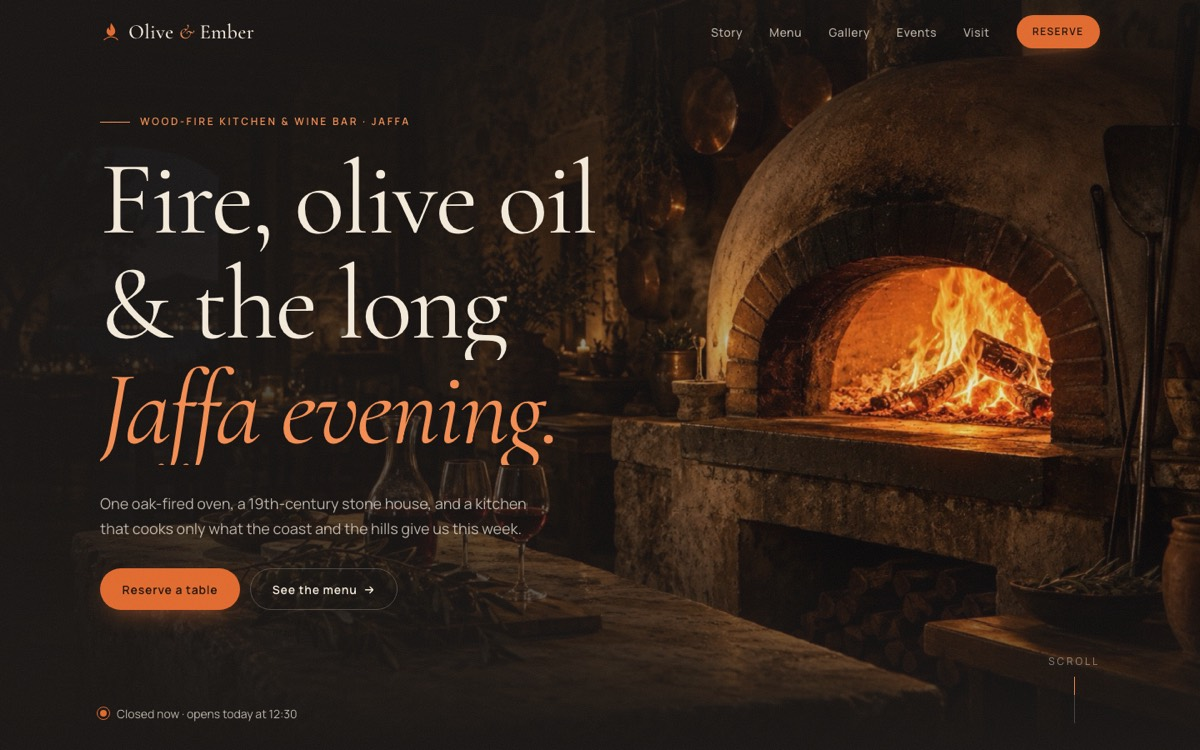
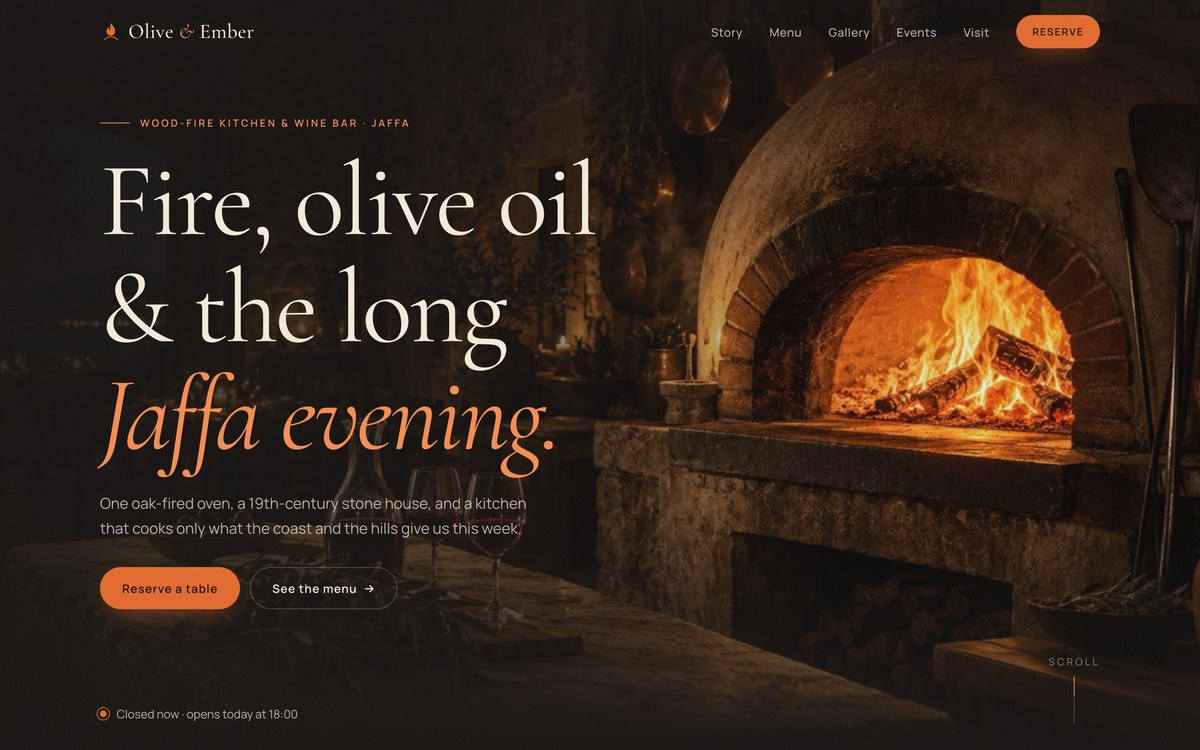
Merge the audience and services sections into one value section, and fix clipped descenders in the Olive & Ember demo
The "For small businesses" and "Websites & automation" sections are now one section, "What your business gets", with two outcome cards that list the services behind each. Each card opens with the pillar name as an outlined ghost word and a lime highlighter title.

The Olive & Ember hero title clipped the descenders of its italic lines; the line wrappers now leave room below the baseline, and the portfolio screenshot was re-captured.

diff --git a/content.js b/content.js
@@ -24,30 +24,33 @@ window.CONTENT = {
       ctaProjects: "Explore my projects",
       portraitAlt: "Portrait of Nimrod Shai",
 
-      forTitle: "For small businesses",
-      forSub: "You want to grow your business while keeping the daily workload manageable. I help you identify where a website or automation could save time and improve service.",
-      audiences: [
+      valueTitle: "What your business gets",
+      valueSub: "Two things, in plain terms: customers who find you and reach you easily, and routine work that no longer needs your hands. We agree on the scope around your priorities, existing tools, and budget.",
+      values: [
         {
-          title: "Make it easier to reach you",
-          body: "Give customers a clear view of your services and an easy way to get in touch. I build websites for small businesses, from local shops to independent professionals, with content and contact options that suit their customers.",
+          kicker: "Websites",
+          title: "Easier for customers to reach you",
+          body: "A clear view of your services and an easy way to get in touch, on phones and desktop screens. I build websites for small businesses, from local shops to independent professionals.",
+          items: [
+            { title: "Business websites", body: "Present your services, answer common questions, and give customers a clear next step." },
+            { title: "Landing pages", body: "A dedicated page for a specific service, offer, or campaign, with a focused message and a clear way to contact you." },
+            { title: "Forms and inquiries", body: "Collect the details you need through a website form and send them to the right place, so you can review and follow up." }
+          ],
+          examplesLabel: "Who it suits",
           examples: ["Local businesses", "Independent professionals", "Clinics and studios", "Classes and schools"]
         },
         {
-          title: "Spend less time on admin",
-          body: "Copying customer details, sending reminders, or preparing the same report takes time away from your business. We review the process together and choose the steps worth automating.",
-          examples: ["Customer inquiries", "Reminders and follow-ups", "Data entry", "Routine reports"]
+          kicker: "Automation",
+          title: "Less of your time on admin",
+          body: "Copying customer details, sending reminders, or preparing the same report takes time away from your business. We review the process together and automate the steps worth automating.",
+          items: [
+            { title: "Reminders and follow-ups", body: "Routine messages, appointment reminders, and follow-up tasks go out on their own, with timing and rules that you approve." },
+            { title: "Connecting your tools", body: "Information moves between your forms, spreadsheets, and customer records, so the same details are never typed twice." },
+            { title: "Reports and recurring tasks", body: "Recurring summaries and reports prepare themselves. We choose which steps to automate and where you review the result." }
+          ],
+          examplesLabel: "What it handles",
+          examples: ["Customer inquiries", "Appointment reminders", "Data entry", "Routine reports"]
         }
-      ],
-
-      servicesTitle: "Websites & automation",
-      servicesSub: "A clear online presence for your customers, and less manual work for you. We agree on the scope around your priorities, existing tools, and budget.",
-      services: [
-        { title: "Business websites", body: "Present your services, answer common questions, and give customers a clear next step. I build websites that work on phones and desktop screens." },
-        { title: "Landing pages", body: "Give a specific service, offer, or campaign a dedicated page with a focused message and a clear way for visitors to contact you." },
-        { title: "Forms and inquiries", body: "Collect the details you need through a website form and send them to the right place, so you can review and follow up on inquiries." },
-        { title: "Reminders and follow-ups", body: "Automate routine messages, appointment reminders, or follow-up tasks, with timing and rules that you approve." },
-        { title: "Connecting your tools", body: "Pass information between the tools your business uses, such as forms, spreadsheets, and customer records. Reduce the need to enter the same details twice." },
-        { title: "Reports and recurring tasks", body: "Collect information and prepare recurring summaries or reports. We choose which steps to automate and where you need to review the result." }
       ],
 
       stepsTitle: "How it works",
@@ -119,30 +122,33 @@ window.CONTENT = {
       ctaProjects: "לפרויקטים שבניתי",
       portraitAlt: "דיוקן של נמרוד שי",
 
-      forTitle: "לבעלי עסקים קטנים",
-      forSub: "אתם רוצים לפתח את העסק ולשמור על שגרת עבודה מסודרת. אני עוזר לזהות היכן אתר או אוטומציה יכולים לחסוך זמן ולשפר את השירות ללקוחות.",
-      audiences: [
+      valueTitle: "מה העסק שלכם מקבל",
+      valueSub: "שני דברים, בפשטות: לקוחות שמוצאים אתכם ופונים אליכם בקלות, ועבודה שגרתית שכבר לא דורשת את הזמן שלכם. נגדיר את הפרויקט לפי סדרי העדיפויות, הכלים הקיימים והתקציב שלכם.",
+      values: [
         {
-          title: "קל יותר להגיע אליכם",
-          body: "אתר עסקי מציג ללקוחות את השירותים שלכם ומאפשר להם לפנות אליכם בנוחות. אני בונה אתרים לעסקים קטנים, מחנויות מקומיות ועד בעלי מקצוע, עם תוכן ואפשרויות יצירת קשר שמתאימים ללקוחות שלהם.",
+          kicker: "אתרים",
+          title: "ללקוחות קל יותר להגיע אליכם",
+          body: "אתר שמציג את השירותים שלכם בבהירות ומאפשר ללקוחות לפנות אליכם בנוחות, מהטלפון ומהמחשב. אני בונה אתרים לעסקים קטנים, מחנויות מקומיות ועד בעלי מקצוע.",
+          items: [
+            { title: "אתרים עסקיים", body: "הציגו את השירותים שלכם, ענו על שאלות נפוצות והקלו על הלקוחות לעשות את הצעד הבא." },
+            { title: "דפי נחיתה", body: "עמוד ייעודי לשירות, להצעה או לקמפיין, עם מסר ממוקד ודרך ברורה לפנות אליכם." },
+            { title: "טפסים וקליטת פניות", body: "אספו את הפרטים הנחוצים בטופס באתר והעבירו אותם למקום המתאים, כדי שתוכלו לטפל בפניות ולעקוב אחריהן." }
+          ],
+          examplesLabel: "למי זה מתאים",
           examples: ["עסקים מקומיים", "בעלי מקצוע ונותני שירות", "קליניקות וסטודיואים", "חוגים ובתי ספר"]
         },
         {
-          title: "פחות זמן על עבודה ידנית",
-          body: "העתקת פרטי לקוחות, שליחת תזכורות והכנת דוחות חוזרים גוזלות זמן מהעסק. נבחן יחד את תהליך העבודה ונבחר אילו שלבים כדאי להפוך לאוטומטיים.",
-          examples: ["טיפול בפניות", "תזכורות ומעקב", "הזנת נתונים", "דוחות תקופתיים"]
+          kicker: "אוטומציה",
+          title: "פחות מהזמן שלכם על עבודה ידנית",
+          body: "העתקת פרטי לקוחות, שליחת תזכורות והכנת אותו דוח שוב ושוב גוזלות זמן מהעסק. נבחן יחד את תהליך העבודה ונהפוך לאוטומטיים את השלבים שבאמת כדאי.",
+          items: [
+            { title: "תזכורות ומעקב", body: "הודעות שגרתיות, תזכורות לתורים ומשימות מעקב נשלחות מעצמן, לפי מועדים וכללים שתאשרו." },
+            { title: "חיבור בין כלים ומערכות", body: "המידע עובר בין הטפסים, הגיליונות ורשומות הלקוחות שלכם, כך שאותם פרטים לא מוזנים פעמיים." },
+            { title: "דוחות ומשימות חוזרות", body: "סיכומים ודוחות תקופתיים מוכנים מעצמם. נבחר יחד אילו שלבים להפוך לאוטומטיים ובאילו נדרשת בדיקה שלכם." }
+          ],
+          examplesLabel: "במה זה מטפל",
+          examples: ["פניות לקוחות", "תזכורות לתורים", "הזנת נתונים", "דוחות תקופתיים"]
         }
-      ],
-
-      servicesTitle: "אתרים ואוטומציה",
-      servicesSub: "נוכחות ברורה ברשת עבור הלקוחות, ופחות עבודה ידנית עבורכם. נגדיר את הפרויקט לפי סדרי העדיפויות, הכלים הקיימים והתקציב שלכם.",
-      services: [
-        { title: "אתרים עסקיים", body: "הציגו את השירותים שלכם, ענו על שאלות נפוצות והקלו על הלקוחות ליצור קשר. אני בונה אתרים שמתאימים לגלישה בטלפון ובמחשב." },
-        { title: "דפי נחיתה", body: "עמוד ייעודי לשירות, להצעה או לקמפיין, עם מסר ממוקד ודרך ברורה לפנות אליכם." },
-        { title: "טפסים וקליטת פניות", body: "אספו את הפרטים הנחוצים באמצעות טופס באתר והעבירו אותם למקום המתאים, כדי שתוכלו לטפל בפניות ולעקוב אחריהן." },
-        { title: "תזכורות ומעקב", body: "הפכו הודעות שגרתיות, תזכורות לתורים או משימות מעקב לאוטומטיות, לפי מועדים וכללים שתאשרו." },
-        { title: "חיבור בין כלים ומערכות", body: "העבירו מידע בין הכלים שהעסק משתמש בהם, כמו טפסים, גיליונות ורשומות לקוחות, וצמצמו את הצורך להזין את אותם פרטים פעמיים." },
-        { title: "דוחות ומשימות חוזרות", body: "אספו מידע והפיקו סיכומים או דוחות תקופתיים. נבחר יחד אילו שלבים להפוך לאוטומטיים ובאילו שלבים נדרשת בדיקה שלכם." }
       ],
 
       stepsTitle: "איך זה עובד",

diff --git a/styles.css b/styles.css
@@ -121,19 +121,33 @@ button { font: inherit; }
 
 /* Audience, services, steps */
 .block { display: flex; flex-direction: column; gap: 56px; padding-top: 40px; padding-bottom: 140px; }
-.audience-grid { display: grid; grid-template-columns: repeat(auto-fit, minmax(min(100%, 420px), 1fr)); gap: 20px; }
-.audience-card { display: flex; flex-direction: column; gap: 16px; padding: clamp(28px, 4vw, 48px); border-radius: 36px; background: var(--card); box-shadow: inset 0 0 0 1px var(--line); }
-.audience-card h3 { font-weight: 600; font-size: clamp(30px, 3.2vw, 42px); line-height: 1.05; letter-spacing: -0.045em; }
-.audience-card p { color: var(--muted); font-size: 17px; line-height: 1.65; }
-.examples { display: flex; flex-wrap: wrap; gap: 8px; margin: 8px 0 0; padding: 0; list-style: none; }
-.examples li { font-size: 14px; line-height: 1.4; padding: 7px 14px; border-radius: 999px; background: var(--raised); color: var(--fg-2); box-shadow: inset 0 0 0 1px rgba(255, 255, 255, 0.06); }
-.audience-card:first-child .examples li { background: var(--accent); color: var(--ink); box-shadow: none; font-weight: 500; }
-
-.service-grid { display: grid; grid-template-columns: repeat(auto-fit, minmax(min(100%, 320px), 1fr)); gap: 1px; background: var(--line); border-radius: 28px; overflow: hidden; }
-.service-card { display: flex; flex-direction: column; gap: 12px; padding: 36px 32px; background: var(--bg); transition: background-color .4s ease; }
-@media (hover: hover) { .service-card:hover { background: var(--card); } }
-.service-card h3 { font-weight: 600; font-size: 24px; line-height: 1.2; letter-spacing: -0.03em; }
-.service-card p { color: var(--muted); font-size: 16px; line-height: 1.65; }
+.value-grid { display: grid; grid-template-columns: repeat(auto-fit, minmax(min(100%, 440px), 1fr)); gap: 20px; }
+.value { position: relative; overflow: hidden; display: flex; flex-direction: column; gap: 32px; padding: clamp(28px, 4vw, 48px); border-radius: 36px; background: var(--card); box-shadow: inset 0 0 0 1px var(--line); transition: box-shadow .6s ease, background-color .6s ease; }
+@media (hover: hover) { .value:hover { background: var(--card-hover); box-shadow: inset 0 0 0 1px var(--line-2), 0 60px 120px -60px var(--accent-glow); } }
+.value-head { position: relative; z-index: 1; display: flex; flex-direction: column; gap: 18px; align-items: flex-start; padding-top: 54px; }
+.value-ghost { position: absolute; top: 18px; inset-inline-start: 30px; font-family: var(--serif); font-style: italic; font-size: 112px; line-height: 1; white-space: nowrap; color: transparent; -webkit-text-stroke: 1px rgba(250, 250, 249, 0.16); pointer-events: none; }
+:root[lang="he"] .value-ghost { font-size: 104px; }
+.value-kicker { position: relative; isolation: isolate; display: inline-block; padding: 6px 16px 8px; margin: 2px 0 4px -6px; font-family: var(--serif); font-style: italic; font-size: 38px; line-height: 1; color: var(--ink); }
+[dir="rtl"] .value-kicker { margin: 2px -6px 4px 0; }
+.value-kicker::before { content: ""; position: absolute; inset: 0; z-index: -1; background: var(--accent); transform: skew(-9deg) rotate(-1.2deg); border-radius: 8px 14px 10px 16px / 14px 8px 16px 10px; }
+@supports (animation-timeline: view()) {
+  @media (prefers-reduced-motion: no-preference) {
+    .value-ghost { animation: ghost-in linear both; animation-timeline: view(); animation-range: entry 10% entry 60%; }
+  }
+}
+@keyframes ghost-in { from { opacity: 0; transform: translateX(var(--ghost-x, 24px)); } }
+[dir="rtl"] .value-ghost { --ghost-x: -24px; }
+.value-head h3 { font-weight: 600; font-size: clamp(30px, 3.2vw, 42px); line-height: 1.05; letter-spacing: -0.045em; max-width: 15ch; }
+.value-head p { color: var(--muted); font-size: 17px; line-height: 1.65; }
+.value-items { margin: 0; padding: 0; list-style: none; border-top: 1px solid var(--line-2); }
+.value-items li { display: grid; grid-template-columns: 40px minmax(0, 1fr); gap: 16px; padding: 22px 0; border-bottom: 1px solid var(--line); }
+.value-n { padding-top: 5px; font-family: var(--mono); font-size: 13px; color: var(--accent); }
+.value-items h4 { font-weight: 600; font-size: 21px; line-height: 1.2; letter-spacing: -0.03em; }
+.value-items p { margin-top: 6px; color: var(--muted); font-size: 15.5px; line-height: 1.6; }
+.value-foot { display: flex; flex-direction: column; gap: 12px; margin-top: auto; }
+.value-label { font-family: var(--mono); font-size: 12px; letter-spacing: .08em; text-transform: uppercase; color: var(--dim); }
+.examples { display: flex; flex-wrap: wrap; gap: 8px; margin: 0; padding: 0; list-style: none; }
+.examples li { font-size: 14px; line-height: 1.4; padding: 7px 14px; border-radius: 999px; background: var(--raised); color: var(--fg-2); box-shadow: inset 0 0 0 1px var(--accent); }
 
 .steps { display: grid; grid-template-columns: repeat(4, 1fr); gap: 40px 32px; margin: 0; padding: 0; list-style: none; }
 @media (max-width: 960px) { .steps { grid-template-columns: repeat(2, 1fr); } }
@@ -260,13 +274,19 @@ button { font: inherit; }
 
   .nav-services { display: none; }
   .block { gap: 32px; padding-top: 16px; padding-bottom: 88px; }
-  .audience-grid { gap: 14px; }
-  .audience-card { border-radius: 28px; padding: 28px 22px; }
-  .audience-card h3 { font-size: 30px; }
-  .audience-card p { font-size: 16px; }
-  .service-grid { border-radius: 24px; }
-  .service-card { padding: 26px 22px; }
-  .service-card h3 { font-size: 22px; }
+  .value-grid { gap: 14px; }
+  .value { gap: 26px; border-radius: 28px; padding: 28px 22px; }
+  .value-head { gap: 14px; }
+  .value-head h3 { font-size: 30px; }
+  .value-head { padding-top: 40px; }
+  .value-ghost { font-size: 84px; top: 14px; inset-inline-start: 18px; }
+  :root[lang="he"] .value-ghost { font-size: 78px; }
+  .value-kicker { font-size: 32px; padding: 5px 13px 7px; }
+  .value-head p { font-size: 16px; }
+  .value-items li { grid-template-columns: 32px minmax(0, 1fr); gap: 12px; padding: 18px 0; }
+  .value-n { padding-top: 4px; }
+  .value-items h4 { font-size: 20px; }
+  .value-items p { font-size: 15px; }
   .steps { grid-template-columns: 1fr; gap: 28px; }
   .faq-q { padding: 20px 0; font-size: 19px; }
   .faq-a p { font-size: 16px; padding-bottom: 22px; }
@@ -326,5 +346,5 @@ button { font: inherit; }
   html { scroll-behavior: auto; }
   .hero-glow, .rise, .marquee-track { animation: none; }
   .hero-words > span { transition: none; }
-  .btn, .btn svg, .service-card, .faq-q .chev, .faq-a, .project, .project-visual img, .behind, .behind-toggle .chev, .more-card { transition: none; }
+  .btn, .btn svg, .value, .faq-q .chev, .faq-a, .project, .project-visual img, .behind, .behind-toggle .chev, .more-card { transition: none; }
 }

diff --git a/app.js b/app.js
@@ -11,7 +11,7 @@
   const arrow = (size) => `<svg class="arrow flip" aria-hidden="true" width="${size}" height="${size}" viewBox="0 0 24 24" fill="none" stroke="currentColor" stroke-width="2.2" stroke-linecap="round" stroke-linejoin="round"><path d="M7 17L17 7"/><path d="M8 7h9v9"/></svg>`;
   const chev = `<svg class="chev" aria-hidden="true" width="16" height="16" viewBox="0 0 24 24" fill="none" stroke="currentColor" stroke-width="2" stroke-linecap="round" stroke-linejoin="round"><path d="M6 9l6 6 6-6"/></svg>`;
   // Projects with langShots have one screenshot per language (id-en.jpg, id-he.jpg).
-  const shot = (p) => `assets/shots/${p.langShots ? `${p.id}-${lang}` : p.id}.jpg?v=5`;
+  const shot = (p) => `assets/shots/${p.langShots ? `${p.id}-${lang}` : p.id}.jpg?v=6`;
   // Local demos open in the same language as the portfolio.
   const demoUrl = (url) => url.startsWith("http") ? url : `${url}?lang=${lang}`;
   const pad = (n) => String(n).padStart(2, "0");
@@ -78,12 +78,26 @@
     document.querySelectorAll("[data-i18n-alt]").forEach((el) => { el.alt = t[el.dataset.i18nAlt]; });
     document.getElementById("langLabel").textContent = t.langLabel;
 
-    document.getElementById("audienceList").innerHTML = t.audiences.map((a) =>
-      `<div class="audience-card"><h3>${esc(a.title)}</h3><p>${esc(a.body)}</p><ul class="examples">${a.examples.map((x) => `<li>${esc(x)}</li>`).join("")}</ul></div>`
-    ).join("");
-
-    document.getElementById("serviceList").innerHTML = t.services.map((x, i) =>
-      `<div class="service-card"><span class="about-n">${pad(i + 1)}</span><h3>${esc(x.title)}</h3><p>${esc(x.body)}</p></div>`
+    // One section: each outcome names the services that deliver it, numbered 01-06 across both.
+    // The mini title: the pillar's name set huge and outlined behind the card top, like a watermark,
+    // with the same word on a lime highlighter in front.
+    let n = 0;
+    document.getElementById("valueList").innerHTML = t.values.map((v) =>
+      `<article class="value">
+        <span class="value-ghost" aria-hidden="true">${esc(v.kicker)}</span>
+        <div class="value-head">
+          <span class="value-kicker">${esc(v.kicker)}</span>
+          <h3>${esc(v.title)}</h3>
+          <p>${esc(v.body)}</p>
+        </div>
+        <ul class="value-items">${v.items.map((x) =>
+          `<li><span class="value-n" aria-hidden="true">${pad(++n)}</span><div><h4>${esc(x.title)}</h4><p>${esc(x.body)}</p></div></li>`
+        ).join("")}</ul>
+        <div class="value-foot">
+          <span class="value-label">${esc(v.examplesLabel)}</span>
+          <ul class="examples">${v.examples.map((x) => `<li>${esc(x)}</li>`).join("")}</ul>
+        </div>
+      </article>`
     ).join("");
 
     document.getElementById("stepList").innerHTML = t.steps.map((x, i) =>

diff --git a/index.html b/index.html
@@ -21,7 +21,7 @@
 <link rel="preconnect" href="https://fonts.googleapis.com">
 <link rel="preconnect" href="https://fonts.gstatic.com" crossorigin>
 <link href="https://fonts.googleapis.com/css2?family=Geist:wght@400;500;600;700&family=Geist+Mono:wght@400;500&family=Instrument+Serif:ital@0;1&family=Rubik:wght@400;500;600;700&family=Frank+Ruhl+Libre:wght@500&display=swap" rel="stylesheet">
-<link rel="stylesheet" href="styles.css?v=29">
+<link rel="stylesheet" href="styles.css?v=32">
 </head>
 <body>
 <a class="skip" href="#main" data-i18n="skip">Skip to content</a>
@@ -68,20 +68,12 @@
     </div>
   </section>
 
-  <section class="wrap block" id="for" aria-labelledby="forTitle">
-    <div class="section-head">
-      <h2 id="forTitle"><span data-i18n="forTitle">For small businesses</span><span class="dot" aria-hidden="true">.</span></h2>
-      <p data-i18n="forSub"></p>
-    </div>
-    <div class="audience-grid" id="audienceList"></div>
-  </section>
-
   <section class="wrap block" id="services" aria-labelledby="servicesTitle">
     <div class="section-head">
-      <h2 id="servicesTitle"><span data-i18n="servicesTitle">Websites &amp; automation</span><span class="dot" aria-hidden="true">.</span></h2>
-      <p data-i18n="servicesSub"></p>
+      <h2 id="servicesTitle"><span data-i18n="valueTitle">What your business gets</span><span class="dot" aria-hidden="true">.</span></h2>
+      <p data-i18n="valueSub"></p>
     </div>
-    <div class="service-grid" id="serviceList"></div>
+    <div class="value-grid" id="valueList"></div>
   </section>
 
   <section class="wrap block" id="how" aria-labelledby="stepsTitle">
@@ -147,6 +139,6 @@
 </footer>
 
 <script src="content.js?v=28"></script>
-<script src="app.js?v=25"></script>
+<script src="app.js?v=30"></script>
 </body>
 </html>

diff --git a/demos/olive-and-ember/styles.css b/demos/olive-and-ember/styles.css
@@ -473,12 +473,13 @@ body.menu-open { overflow: hidden; }
   letter-spacing: -0.025em;
   max-width: 11ch;
 }
-.hero__line { display: block; overflow: hidden; padding-bottom: 0.06em; }
+/* Room for the italic descenders (f, g, J) below the tight line box; the negative margins keep the leading unchanged. */
+.hero__line { display: block; overflow: hidden; padding: 0.08em 0.12em 0.26em; margin: -0.08em -0.12em -0.26em; }
 .hero__line > span { display: inline-block; animation: lineUp 1.2s var(--ease) both; }
 .hero__line:nth-child(1) > span { animation-delay: 0.5s; }
 .hero__line:nth-child(2) > span { animation-delay: 0.62s; }
 .hero__line:nth-child(3) > span { animation-delay: 0.74s; }
-@keyframes lineUp { from { transform: translateY(105%); } to { transform: none; } }
+@keyframes lineUp { from { transform: translateY(140%); } to { transform: none; } }
 @keyframes fadeUp { from { opacity: 0; transform: translateY(18px); } to { opacity: 1; transform: none; } }
 
 .hero__lede {
